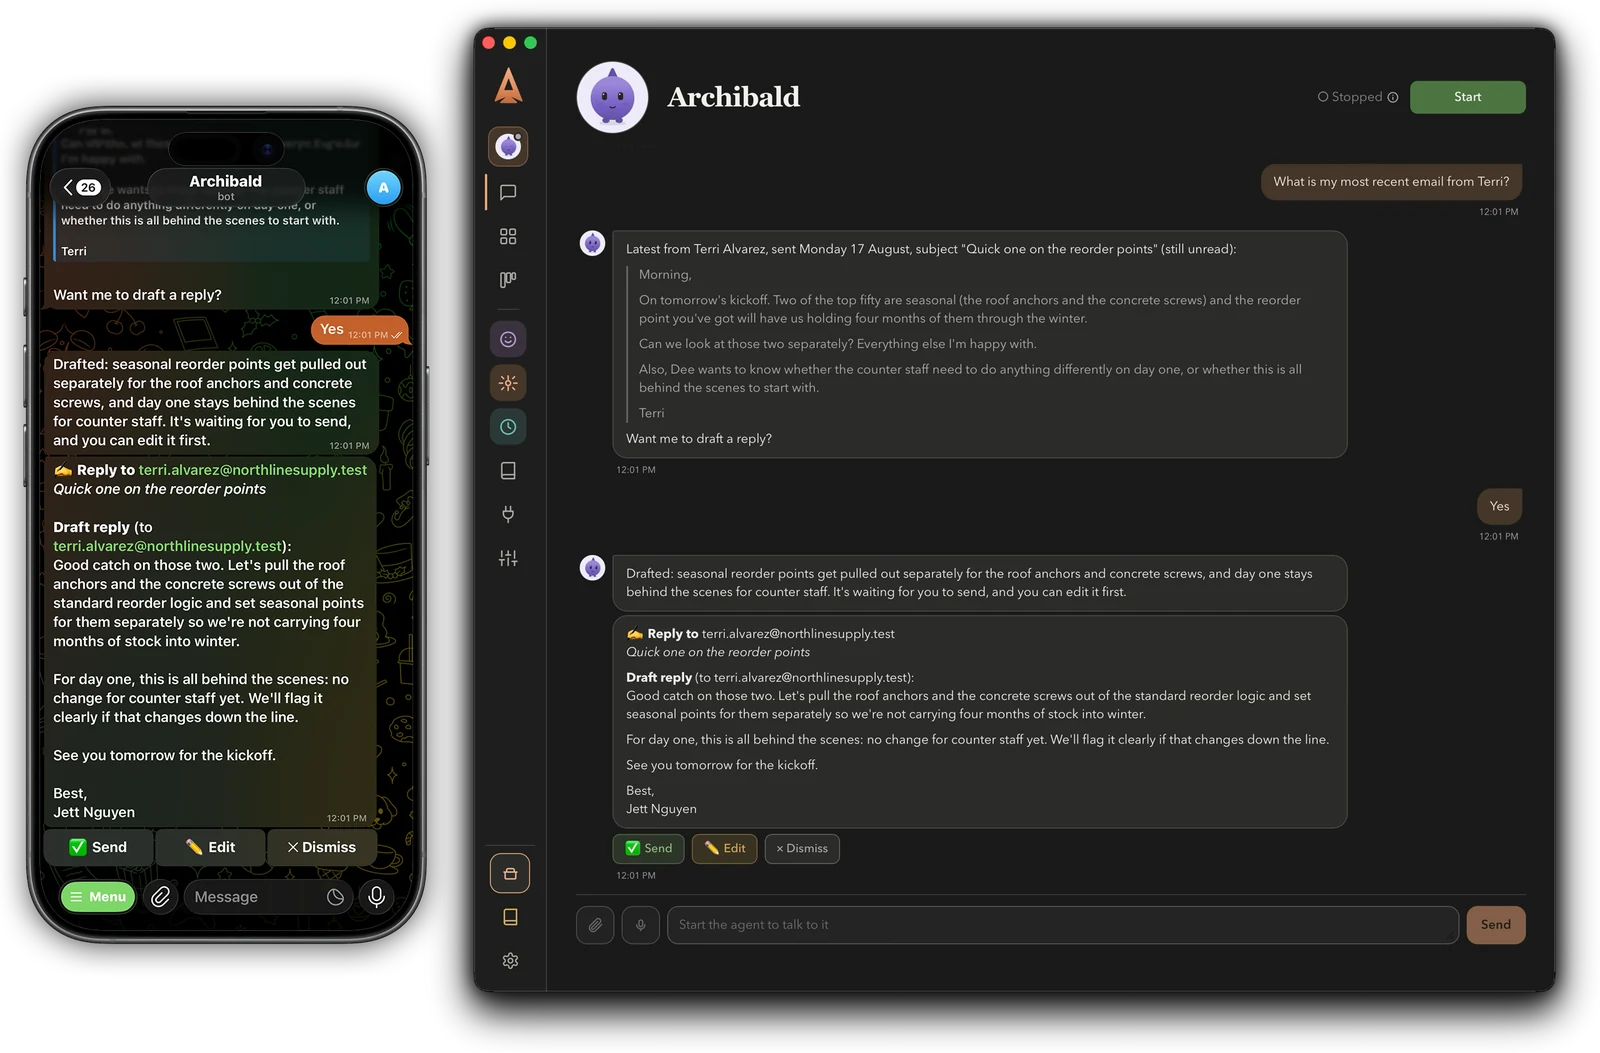
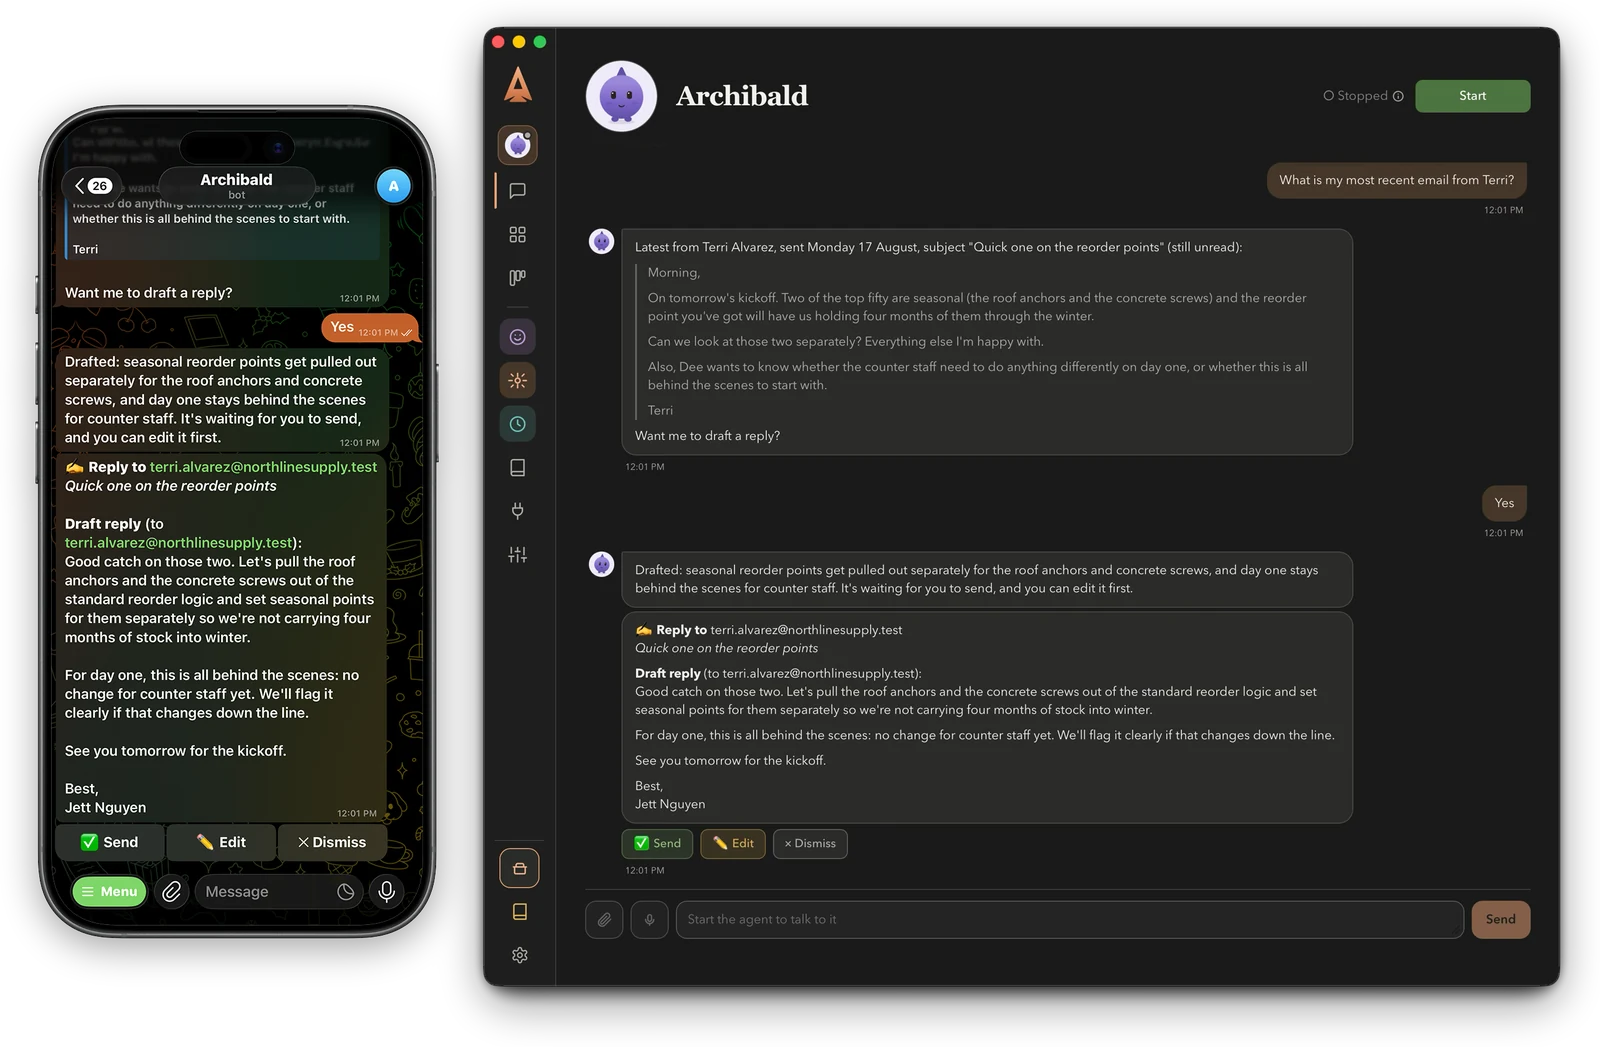
The screenshots get a clean cut and one shadow between them

Changed region(s): [[0.0, 0.0, 1.0, 0.978], [0.8438, 0.0917, 0.9375, 0.1223], [0.75, 0.703, 0.7812, 0.7335]]

diff --git a/index.html b/index.html
@@ -415,9 +415,9 @@
           <button type="button" class="hm-shots-tab" role="tab" aria-selected="false">In the Archie chat</button>
         </div>
         <div class="hm-shots-stage fade-up">
-          <figure class="hm-shot is-on"><img src="assets/shot-name.webp" width="1600" height="1032" alt="The Archie app, naming a new agent: a name field reading Benedict, and a box for what the agent should help with." /></figure>
-          <figure class="hm-shot"><img src="assets/shot-overview.webp" width="1600" height="1029" alt="An agent overview in Archie, showing its personality, its skills and routines, what it did lately, and what it knows about." loading="lazy" /></figure>
-          <figure class="hm-shot"><img src="assets/shot-chat.webp" width="1600" height="1053" alt="A conversation with an agent, on the computer and on a phone side by side, showing a drafted reply waiting on Send, Edit or Dismiss." loading="lazy" /></figure>
+          <figure class="hm-shot is-on"><img src="assets/shot-name.webp" width="1600" height="1058" alt="The Archie app, naming a new agent: a name field reading Benedict, and a box for what the agent should help with." /></figure>
+          <figure class="hm-shot"><img src="assets/shot-overview.webp" width="1600" height="1052" alt="An agent overview in Archie, showing its personality, its skills and routines, what it did lately, and what it knows about." loading="lazy" /></figure>
+          <figure class="hm-shot"><img src="assets/shot-chat.webp" width="1600" height="1047" alt="A conversation with an agent, on the computer and on a phone side by side, showing a drafted reply waiting on Send, Edit or Dismiss." loading="lazy" /></figure>
         </div>
       </div>
     </section>

diff --git a/css/styles.css b/css/styles.css
@@ -9607,12 +9607,9 @@ html[data-theme="dark"] .booking-container iframe {
   opacity: 1; visibility: visible; transform: none;
   transition-delay: 0s, 0s, 0s;
 }
-.hm-shot img {
-  width: 100%; height: auto;
-  /* The window carries its own shadow in the artwork; this is the ground shadow that
-     sits it on the page, shaped to the cut-out rather than to a box. */
-  filter: drop-shadow(0 18px 34px rgba(20, 16, 12, 0.28));
-}
+/* No CSS shadow: each shot carries its own, baked around the cut-out window at the
+   same blur and offset, so the three sit on the page identically. */
+.hm-shot img { width: 100%; height: auto; }
 @media (prefers-reduced-motion: reduce) {
   .hm-shot { transition: opacity 1ms linear, visibility 0s linear 1ms; transform: none; }
 }
